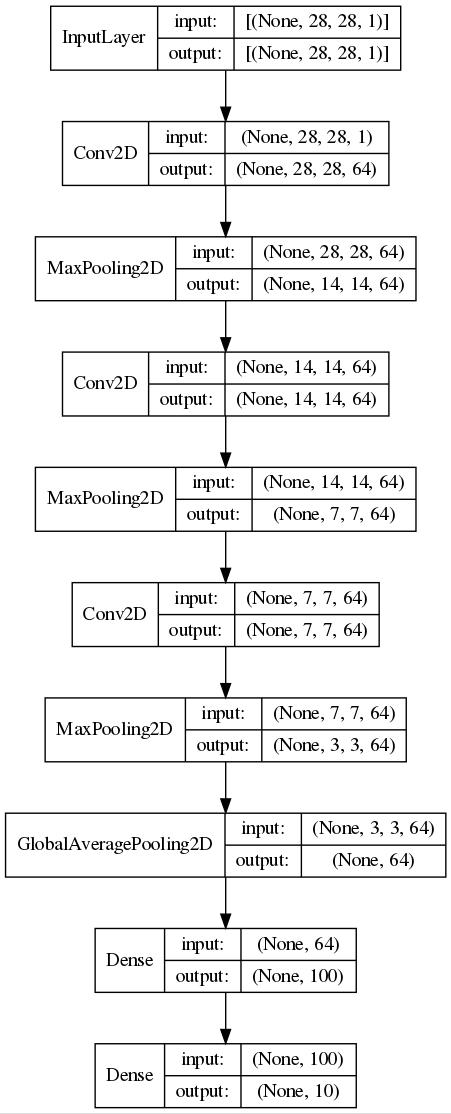
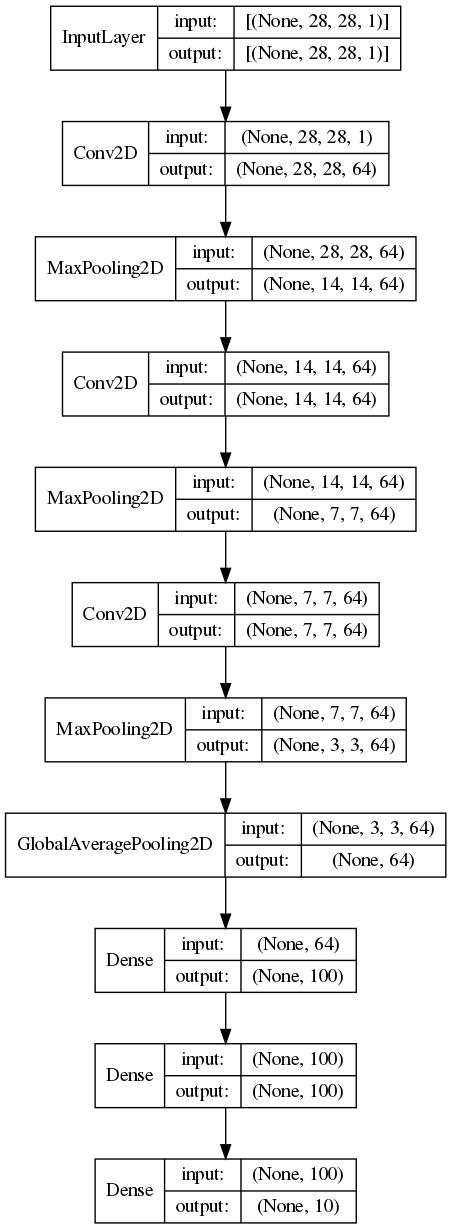
2021-12-14_20:01:37

Changed region(s): [[0.0, 0.0, 0.9933, 1.0]]

diff --git a/cnns/mnist_cnn.py b/cnns/mnist_cnn.py
@@ -13,8 +13,8 @@ from tensorflow.python.keras.utils.vis_utils import plot_model
 
 
 # Load train and test data
-# (train_images, train_labels), (test_images, test_labels) = mnist.load_data()
-(train_images, train_labels), (test_images, test_labels) = fashion_mnist.load_data()
+(train_images, train_labels), (test_images, test_labels) = mnist.load_data()
+# (train_images, train_labels), (test_images, test_labels) = fashion_mnist.load_data()  # 0.910099983215332
 
 # Plot 100 training images
 fig, ax = plt.subplots(nrows=10, ncols=10, figsize=(10, 10))
@@ -52,7 +52,7 @@ config = {'conv_layers': 2,
           'conv_dropout_rate': 0.1,
           'maxpool_stride': 2,
           'maxpool_kernel_size': 2,
-          'fc_layers': 1,
+          'fc_layers': 2,
           'fc_neurons': 100,
           'fc_activation_function': 'relu',
           'fc_initializer': 'he_uniform',
